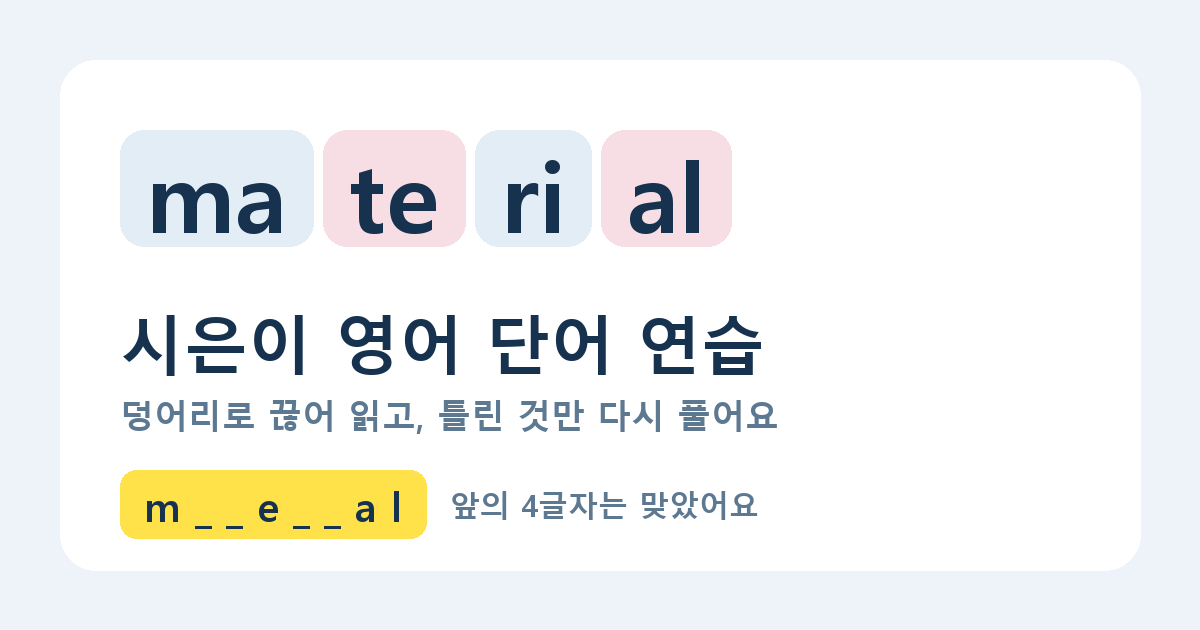
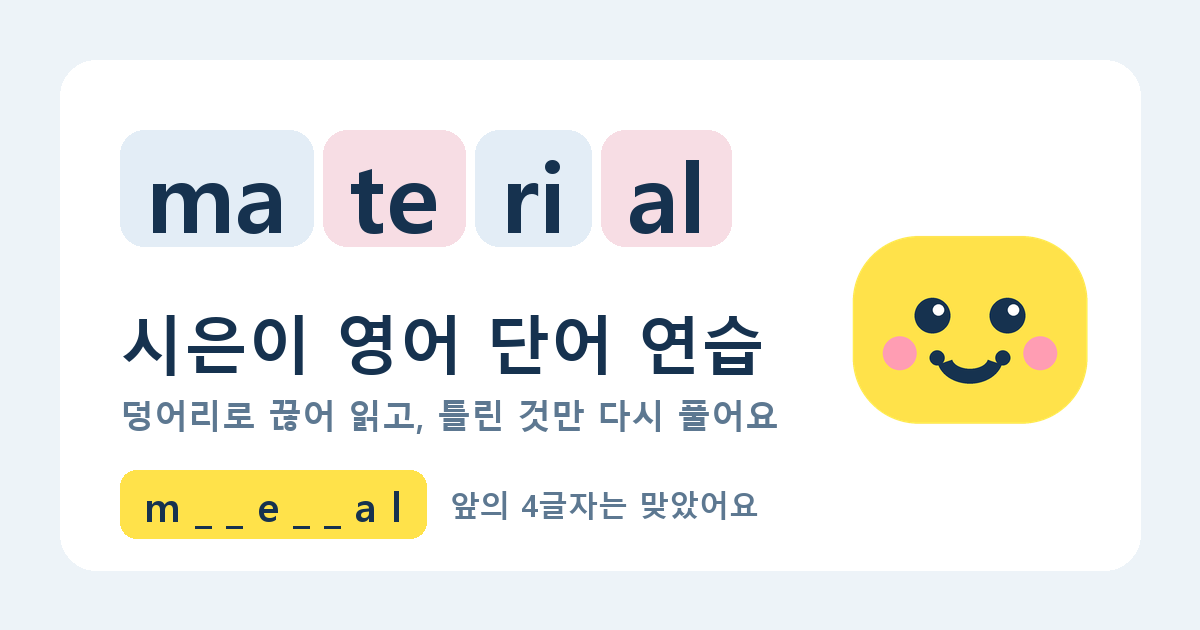
OG 미리보기 이미지에 얼굴 캐릭터 추가
아이콘과 같은 얼굴을 카드 오른쪽에 파란 바탕 없이 얹었다. face() 로 도안을 공유한다.

Changed region(s): [[0.7092, 0.3619, 0.925, 0.6937]]

diff --git a/scripts/make-icons.py b/scripts/make-icons.py
@@ -53,14 +53,16 @@ def chips(draw, x, y, parts, size, pad_x, pad_y, gap, colors=(CHIP_A, CHIP_B), i
 CHEEK = "#FF9DB3"
 
 
-def icon(size):
-    """앱 아이콘: 파란 바탕 위, 노란 힌트 칩에 얼굴을 붙인 캐릭터 (favicon.svg 와 같은 도안).
+def face(size, with_bg=True):
+    """노란 힌트 칩에 얼굴을 붙인 캐릭터 (favicon.svg 와 같은 도안). RGBA size×size.
+    with_bg=False 면 파란 바탕 없이 얼굴만 (OG 카드에 얹을 때).
     작은 크기에서도 눈·입이 읽히도록 4배로 그려서 줄인다."""
     S = size * 4
     img = Image.new("RGBA", (S, S), (0, 0, 0, 0))
     d = ImageDraw.Draw(img)
     u = S / 64  # favicon.svg 의 64 단위 좌표를 그대로 쓴다
-    rounded(d, (0, 0, S, S), 15 * u, ACC)
+    if with_bg:
+        rounded(d, (0, 0, S, S), 15 * u, ACC)
     rounded(d, (7 * u, 13 * u, 57 * u, 53 * u), 14 * u, HL)
 
     def dot(cx, cy, r, fill):
@@ -82,6 +84,11 @@ def icon(size):
     return img.resize((size, size), Image.LANCZOS)
 
 
+def icon(size):
+    """앱 아이콘 = 파란 바탕 + 얼굴"""
+    return face(size, with_bg=True)
+
+
 def og():
     W, H = 1200, 630
     img = Image.new("RGB", (W, H), BG)
@@ -100,6 +107,9 @@ def og():
     rounded(d, (120, 470, 120 + tw + 48, 470 + 68), 16, HL)
     d.text((144, 478), mask, font=f, fill=INK)
     d.text((120 + tw + 72, 484), "앞의 4글자는 맞았어요", font=font(30), fill=INK2)
+    # 오른쪽에 얼굴 캐릭터 (파란 바탕 없이)
+    fc = face(300, with_bg=False)
+    img.paste(fc, (W - 60 - 300 - 20, (H - 300) // 2 + 10), fc)
     return img
 
 
